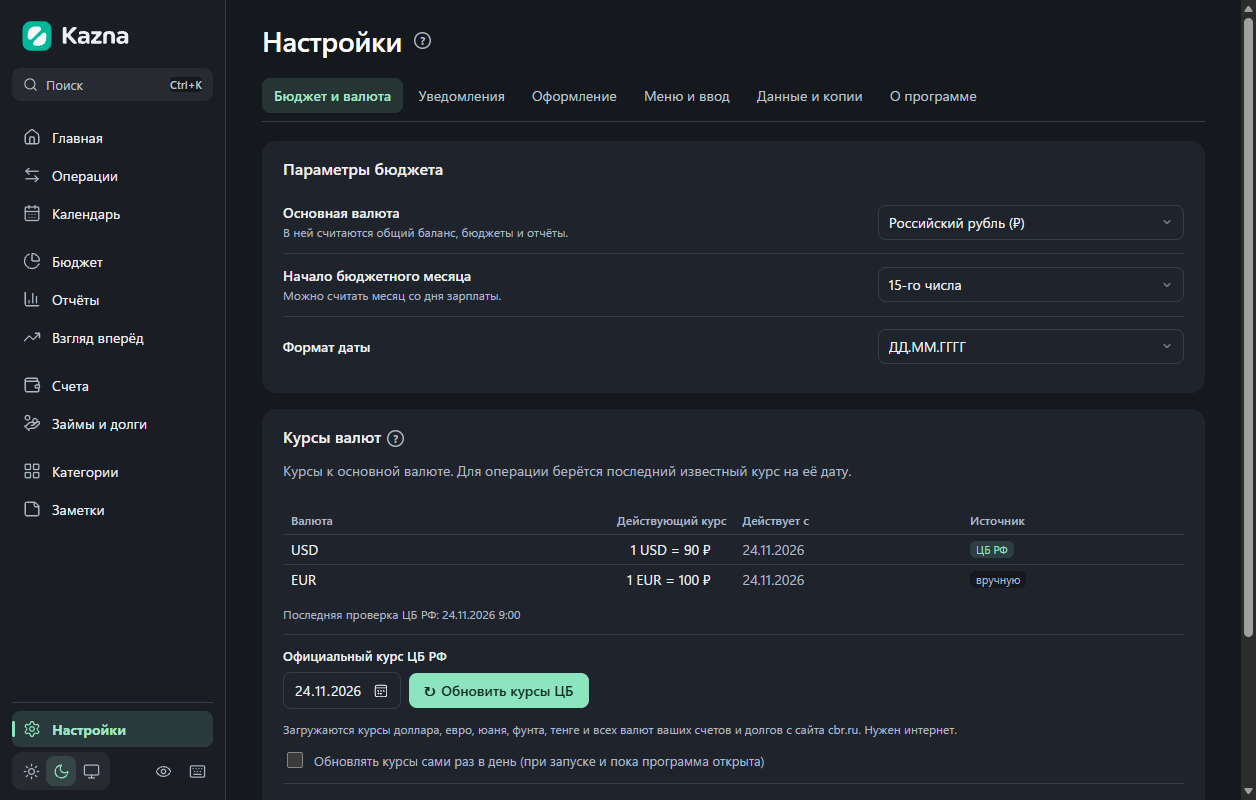
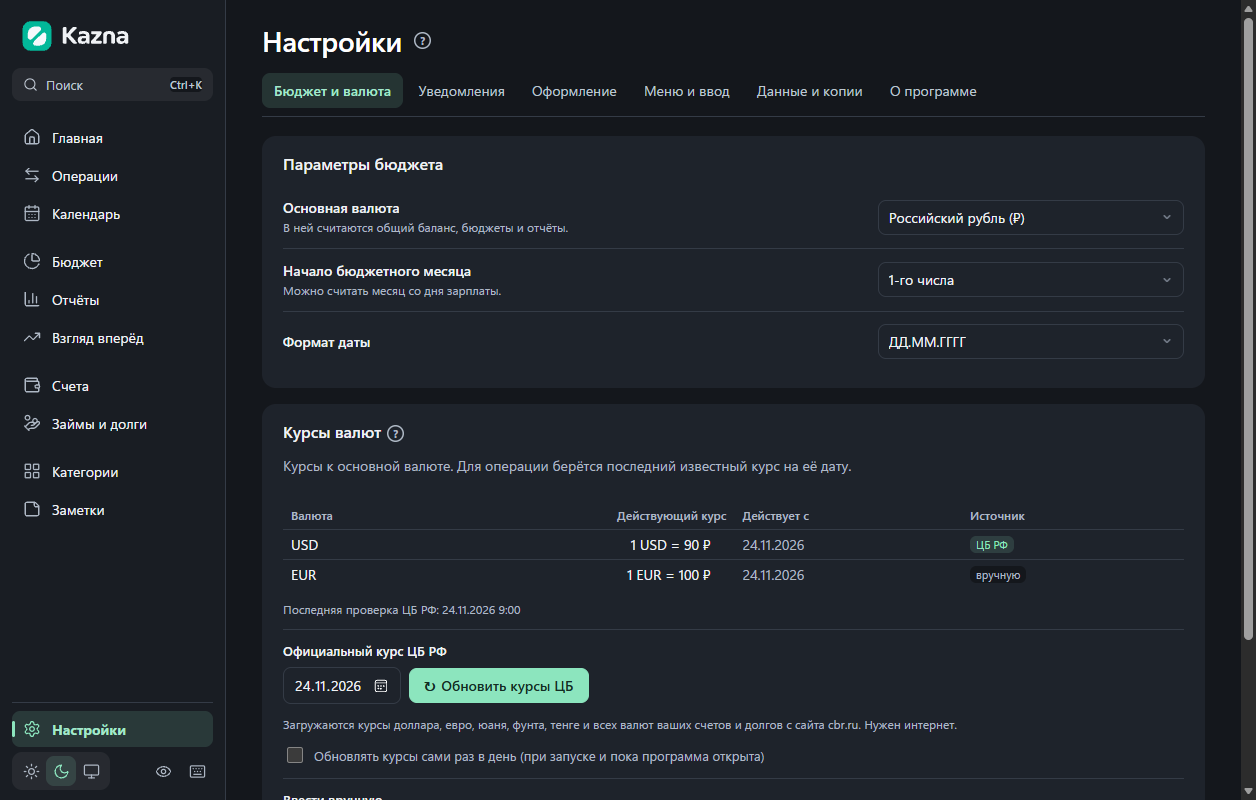
Сохранить доступ к кнопкам и фокус при настройке меню

diff --git a/src/components/ModulesCard.tsx b/src/components/ModulesCard.tsx
@@ -1,3 +1,4 @@
+import { useRef } from "react";
 import { api } from "../lib/api";
 import { MODULE_IDS, MODULES, useModules, type ModuleId } from "../lib/modules";
 import { useAction } from "../lib/useAction";
@@ -7,8 +8,8 @@ import { ErrorText } from "./Modal";
  *  при включении всё возвращается на свои места. «Включить всё» — вернуть как было (Г13). */
 export function ModulesCard() {
   const { off } = useModules();
-  const save = useAction((next: ModuleId[]) => api.setSetting("ui_modules", JSON.stringify(next)));
-  const toggle = (m: ModuleId) => save.run(off.includes(m) ? off.filter((x) => x !== m) : [...off, m]);
+  const firstOff = useRef<HTMLInputElement>(null);
+  const save = useAction((next: ModuleId[]) => api.setSetting("ui_modules", JSON.stringify(next)), undefined, { singleSubmit: true });
   return (
     <div className="card" data-testid="modules-card">
       <h2>Возможности</h2>
@@ -17,7 +18,16 @@ export function ModulesCard() {
         {MODULE_IDS.map((m) => (
           <li key={m}>
             <label className="check">
-              <input type="checkbox" name={`module-${m}`} checked={!off.includes(m)} onChange={() => toggle(m)} disabled={save.busy} />
+              <input
+                type="checkbox"
+                name={`module-${m}`}
+                ref={m === off[0] ? firstOff : undefined}
+                checked={!off.includes(m)}
+                aria-disabled={save.busy || undefined}
+                onChange={() => {
+                  if (!save.busy) save.run(off.includes(m) ? off.filter((x) => x !== m) : [...off, m]);
+                }}
+              />
               <span>
                 {MODULES[m].title}
                 <span className="sub">{MODULES[m].hint}</span>
@@ -27,7 +37,15 @@ export function ModulesCard() {
         ))}
       </ul>
       {off.length > 0 && (
-        <button className="btn" onClick={() => save.run([])} data-testid="modules-all">
+        <button
+          className="btn"
+          disabled={save.busy}
+          data-testid="modules-all"
+          onClick={() => {
+            firstOff.current?.focus({ preventScroll: true });
+            save.run([]);
+          }}
+        >
           Включить всё
         </button>
       )}

diff --git a/src/components/NavCard.tsx b/src/components/NavCard.tsx
@@ -1,4 +1,5 @@
 import { ArrowDown, ArrowUp } from "lucide-react";
+import { useRef } from "react";
 import { useModules } from "../lib/modules";
 import { isDefaultNav, NAV_FIXED, resetNavPrefs, saveAddMain, saveNav, useNavPrefs, type AddMain, type NavLayout } from "../lib/navLayout";
 import { section } from "../lib/sections";
@@ -8,6 +9,7 @@ import { ADD_LABEL, ADD_TYPES } from "./AddMenu";
  *  в меню, «Мои виды» можно поднять наверх. «Как было» возвращает меню и кнопку по умолчанию. */
 export function NavCard() {
   const { nav, addMain } = useNavPrefs();
+  const mainAction = useRef<HTMLSelectElement>(null);
   const { sectionOn } = useModules();
   const set = (next: Partial<NavLayout>) => saveNav({ ...nav, ...next });
   const move = (i: number, d: -1 | 1) => {
@@ -59,7 +61,7 @@ export function NavCard() {
       </label>
       <div className="field">
         <label htmlFor="addMain">Главная кнопка на Главной</label>
-        <select id="addMain" name="addMain" value={addMain} onChange={(e) => saveAddMain(e.target.value as AddMain)}>
+        <select id="addMain" name="addMain" ref={mainAction} value={addMain} onChange={(e) => saveAddMain(e.target.value as AddMain)}>
           {ADD_TYPES.map((t) => (
             <option key={t} value={t}>
               {ADD_LABEL[t].replace("+ ", "")}
@@ -72,7 +74,10 @@ export function NavCard() {
         <button
           className="btn"
           data-testid="nav-reset"
-          onClick={resetNavPrefs}
+          onClick={() => {
+            mainAction.current?.focus({ preventScroll: true });
+            resetNavPrefs();
+          }}
         >
           Как было
         </button>

diff --git a/src/screens/settings-navigation.css b/src/screens/settings-navigation.css
@@ -99,23 +99,6 @@
   overflow-wrap: anywhere;
 }
 
-/* На длинной странице тема доступна и внизу. На узком или низком экране
-   оставляем больше места полям — многострочная навигация прокручивается вместе с ними. */
-@media (min-height: 32rem) {
-  @container (min-width: 56rem) {
-    .settings-topics {
-      position: sticky;
-      top: 0;
-      z-index: 1;
-      padding-block-start: .35rem;
-      background: var(--bg);
-    }
-    .settings-panel :is(.settings-section, input, select, button, summary) {
-      scroll-margin-block-start: 4rem;
-    }
-  }
-}
-
 @container (max-width: 48rem) {
   .settings-topics {
     display: grid;

diff --git a/docs/project-state.md b/docs/project-state.md
@@ -16,6 +16,8 @@
 
 В изолированном Edge на Windows прошли 22 группы проверок интерфейса на вымышленных данных. Проверены шесть вкладок, изменение ширины окна и масштаба, клавиатура, личный порядок меню, черновик курса и фокус при восстановлении копии. Ответы приложения на чтение и запись данных в этом прогоне имитировались. Прошли 188 модульных тестов интерфейса. [Тёмная тема](design/screens/settings-0421-dark.png) · [Светлая тема](design/screens/settings-0421-notifications.png)
 
+После первого оконного прогона убрали перекрытие элементов вкладками при прокрутке. На трёх размерах окна Edge проверены изменение состава Главной, скрытие и возврат «Заметок», сброс главного действия с перевода на расход. При задержке сохранения повторное нажатие пробела отправило один запрос. Сборки и сквозные проверки кандидата — в [PR №121](https://github.com/Xoma1818/p-treasury/pull/121/checks).
+
 1. Оба сквозных прогона Linux/WebKit завершились успешно. Для [№119](https://github.com/Xoma1818/p-treasury/actions/runs/45293863499/job/138109180793) и [№120](https://github.com/Xoma1818/p-treasury/actions/runs/45296059331/job/138116726283) прошли по 257 сценариев из 258. В обоих пропущен отдельный оконный замер на большой базе. Для полного ручного покрытия пройти оставшиеся шаги [матрицы из 89 сценариев](testing/manual-0.41.5-coverage.md), включая частично подтверждённые 44 сценария. Согласовать предложенные названия и размещение действий до переноса макета в основные экраны.
 2. В [№119](https://github.com/Xoma1818/p-treasury/pull/119) также вошли поиск бюджета после смены дня начала месяца из [№94](https://github.com/Xoma1818/p-treasury/pull/94) и отмена первой настройки состава счетов из [№93](https://github.com/Xoma1818/p-treasury/pull/93). Сверить оставшиеся изменения в этих двух ветках.
 3. QA и аналитик. В [плане качества №68](https://github.com/Xoma1818/p-treasury/issues/68) вести оставшиеся системные проверки. Отдельное наблюдение за новым пользователем ждёт участника. Самостоятельный повтор учебных заданий назначен на 30 ноября. [Исходное прохождение](testing/ux-pilot-self-0.41.2.md)
